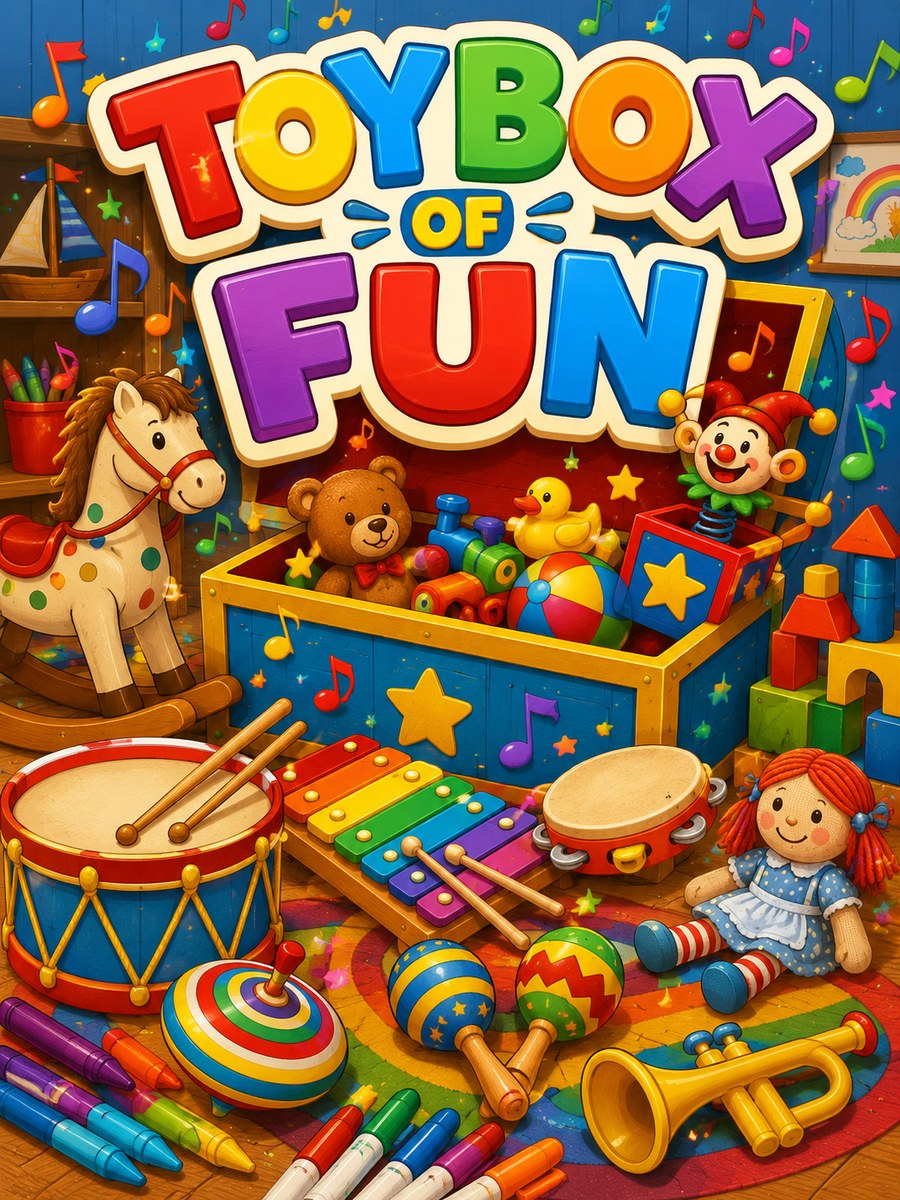
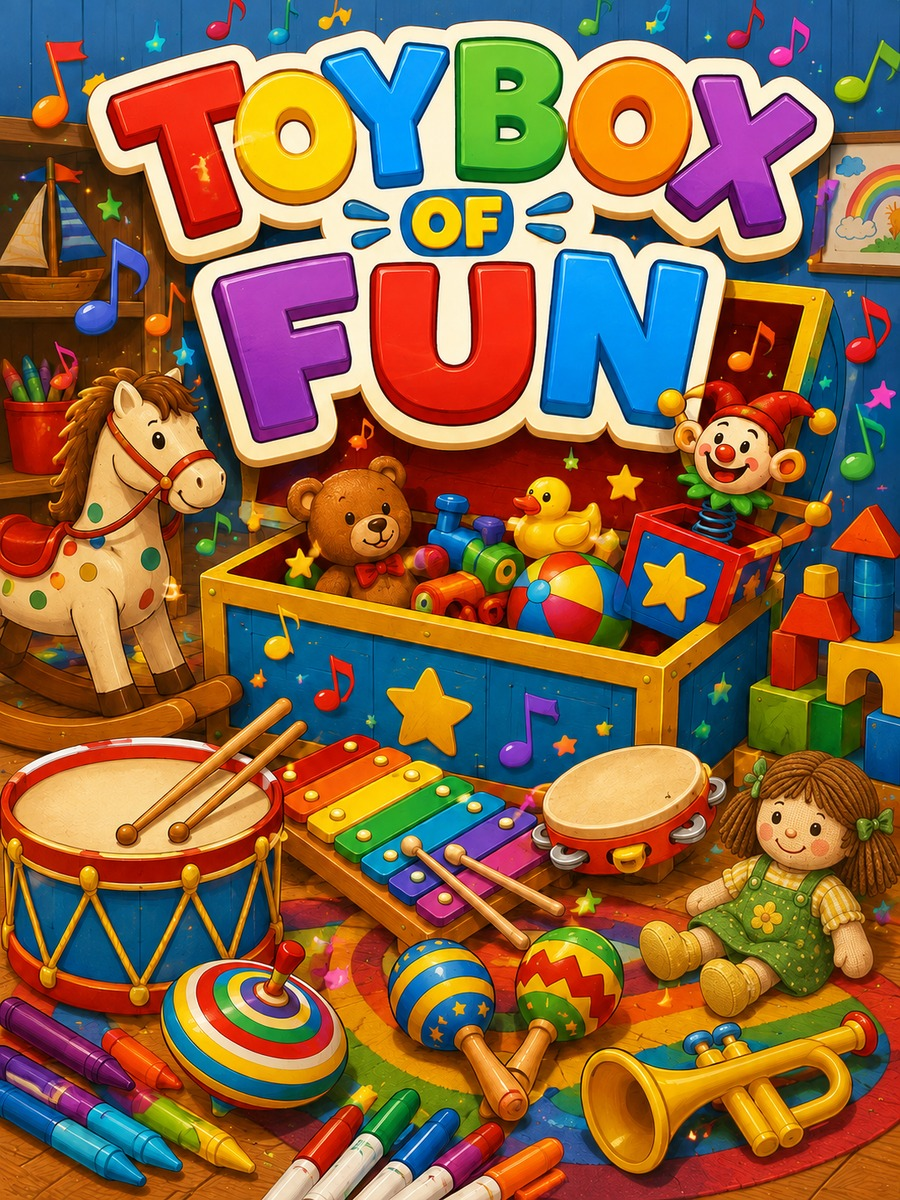
v260: Kids Toybox poster - rag doll redrawn, no Raggedy Ann
Trademark audit. The doll bottom-right had red yarn hair and a white
pinafore. Replaced with a generic rag doll: brown yarn hair, green
pinafore, gingham sleeves. Plate (card-kidstoybox.jpg) has no doll and
needed no change.

Claude-Session: https://claude.ai/code/session_012avjdYG8yRCMZ3uJswRWwC

diff --git a/sw.js b/sw.js
@@ -1,4 +1,4 @@
-var CACHE='sfs-v259';
+var CACHE='sfs-v260';
 /* IMPORTANT: do NOT precache the HTML documents. If the app shell is cached, an installed PWA
    can launch straight from cache and bypass Cloudflare Access. Keeping only static assets here
    forces every page launch to hit the network, so the Access login is always enforced. */
